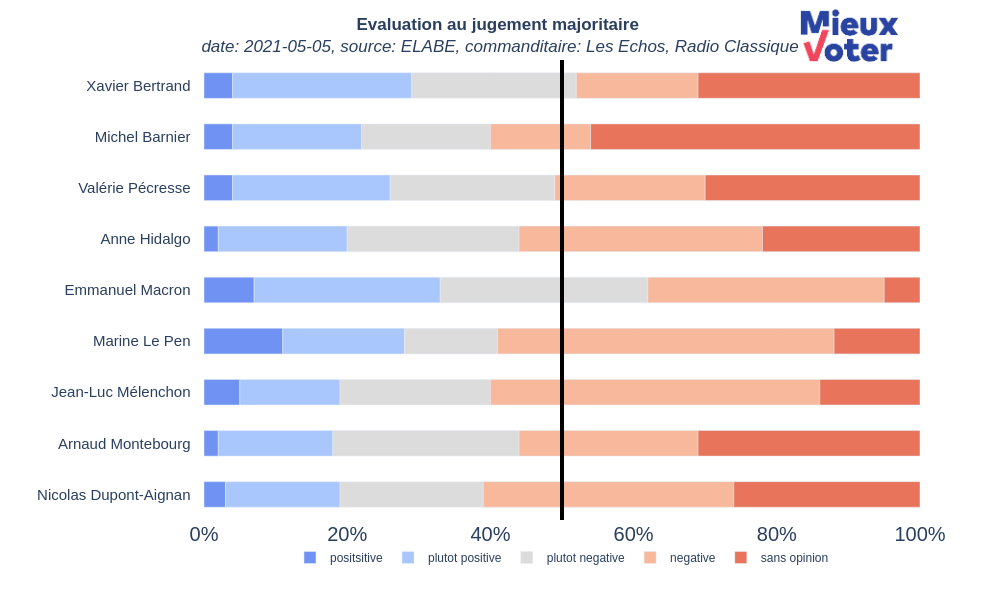
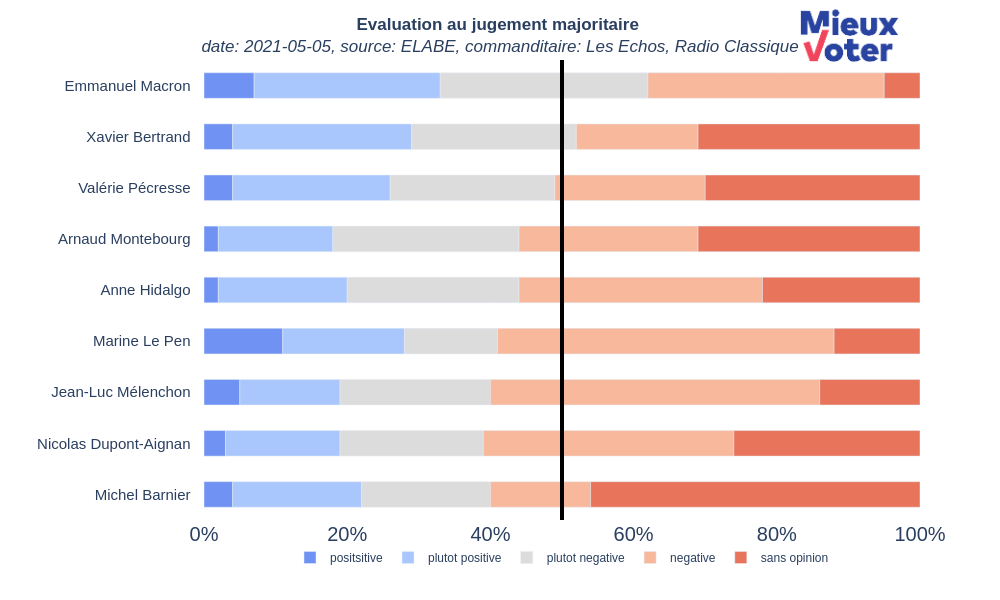
fix bug in database, and new interface works fine, blacked

diff --git a/interface_mj.py b/interface_mj.py
@@ -47,14 +47,19 @@ def sort_candidates_mj(
     merit_profiles_dict = set_dictionary(df_intentions, nb_grades, nb_candidates)
     ranking = mj(merit_profiles_dict, reverse=True)
 
-    new_df = pd.DataFrame(columns=df_intentions.columns)
+    # copy and empy the panda datafram to refill it.
+    new_df = df_intentions.copy()
+    new_df = new_df.drop(
+        labels=new_df.index, axis=0, index=None, columns=None, level=None, inplace=True, errors="raise"
+    )
+    # refilling the dataframe
     for key in ranking:
         row = df_intentions[df_intentions["candidat"] == key]
         new_df = pd.concat([new_df, row], ignore_index=True)
     # set new index of rows
-    new_df.index = pd.Index(data=[i for i in range(1, nb_candidates+1)], dtype="int64")
+    new_df.index = pd.Index(data=[i for i in range(1, nb_candidates + 1)], dtype="int64")
 
-    return df_intentions.reindex(index=df_intentions.index[::-1])
+    return new_df.reindex(index=new_df.index[::-1])  # sort to plot it the right way, best candidate at the top.
 
 
 def set_merit_profiles(df_intentions: DataFrame, nb_grades: int, nb_candidates: int):
@@ -96,7 +101,10 @@ def set_merit_profiles2(df_intentions: DataFrame, nb_grades: int, nb_candidates:
     A list of dictionaries which contains the number of votes for each grade for each candidates,
     the length of the list is the number of candidates
     """
-    return [{j: df_intentions.iloc[i, nb_grades-j-1] for j in range(nb_grades-1, -1, -1)} for i in range(nb_candidates)]
+    return [
+        {j: df_intentions.iloc[i, nb_grades - j - 1] for j in range(nb_grades - 1, -1, -1)}
+        for i in range(nb_candidates)
+    ]
 
 
 def set_dictionary(df_intentions: DataFrame, nb_grades: int, nb_candidates: int):
@@ -117,4 +125,7 @@ def set_dictionary(df_intentions: DataFrame, nb_grades: int, nb_candidates: int)
     A list of dictionaries which contains the number of votes for each grade for each candidates,
     the length of the list is the number of candidates
     """
-    return {df_intentions["candidat"].iloc[i]: [df_intentions.iloc[i, j+1] for j in range(nb_grades)] for i in range(nb_candidates)}
+    return {
+        df_intentions["candidat"].iloc[i]: [df_intentions.iloc[i, j + 1] for j in range(nb_grades)]
+        for i in range(nb_candidates)
+    }

diff --git a/libs/majority_judgment_2.py b/libs/majority_judgment_2.py
@@ -73,10 +73,7 @@ def best_grade(l: List):
             return i
 
 
-def fmajorit(index_median: Dict[str, int],
-             nbvot: int,
-             candidate: str,
-             grades: List[int]):
+def fmajorit(index_median: Dict[str, int], nbvot: int, candidate: str, grades: List[int]):
     """
     Rank each candidate according to
     # https://fr.wikipedia.org/wiki/M%C3%A9thode_de_meilleure_m%C3%A9diane#cite_note-Fabre20-3
@@ -106,7 +103,7 @@ def fmajorit(index_median: Dict[str, int],
     """
     i = index_median[candidate]
     q = sum(grades[:i]) / nbvot
-    p = sum(grades[i + 1:]) / nbvot
+    p = sum(grades[i + 1 :]) / nbvot
     b = p > q
     m = i
     if b:
@@ -116,6 +113,6 @@ def fmajorit(index_median: Dict[str, int],
         d = -q
         i2 = i - 1
     m += d
-    e = min(nbvot / 2 + 1 - sum(grades[:i]), sum(grades[:(i + 1)]) - (nbvot / 2))
+    e = min(nbvot / 2 + 1 - sum(grades[:i]), sum(grades[: (i + 1)]) - (nbvot / 2))
     e = int(e * 2)
     return [i, m, p, q, b, d, e, i2]

diff --git a/main.py b/main.py
@@ -30,7 +30,7 @@ def main():
         nb_grades = df_survey["nombre_mentions"].unique()[0]
         grades = get_grades(df_survey, nb_grades)
         first_idx = df_survey.first_valid_index()
-        source = df_survey['nom_institut'].loc[first_idx]
+        source = df_survey["nom_institut"].loc[first_idx]
         sponsor = df_survey["commanditaire"].loc[first_idx]
         date = df_survey["fin_enquete"].loc[first_idx]
 

diff --git a/plots.py b/plots.py
@@ -89,10 +89,7 @@ def plot_merit_profiles(
         sponsor_str = f"commanditaire: {sponsor}"
     title = "<b>Evaluation au jugement majoritaire</b> <br>" + f"<i>{date_str}{source_str}{sponsor_str}</i>"
 
-    fig.update_layout(
-        title=title,
-        title_x=0.5
-    )
+    fig.update_layout(title=title, title_x=0.5)
 
     # font family
     fig.update_layout(font_family="arial")
